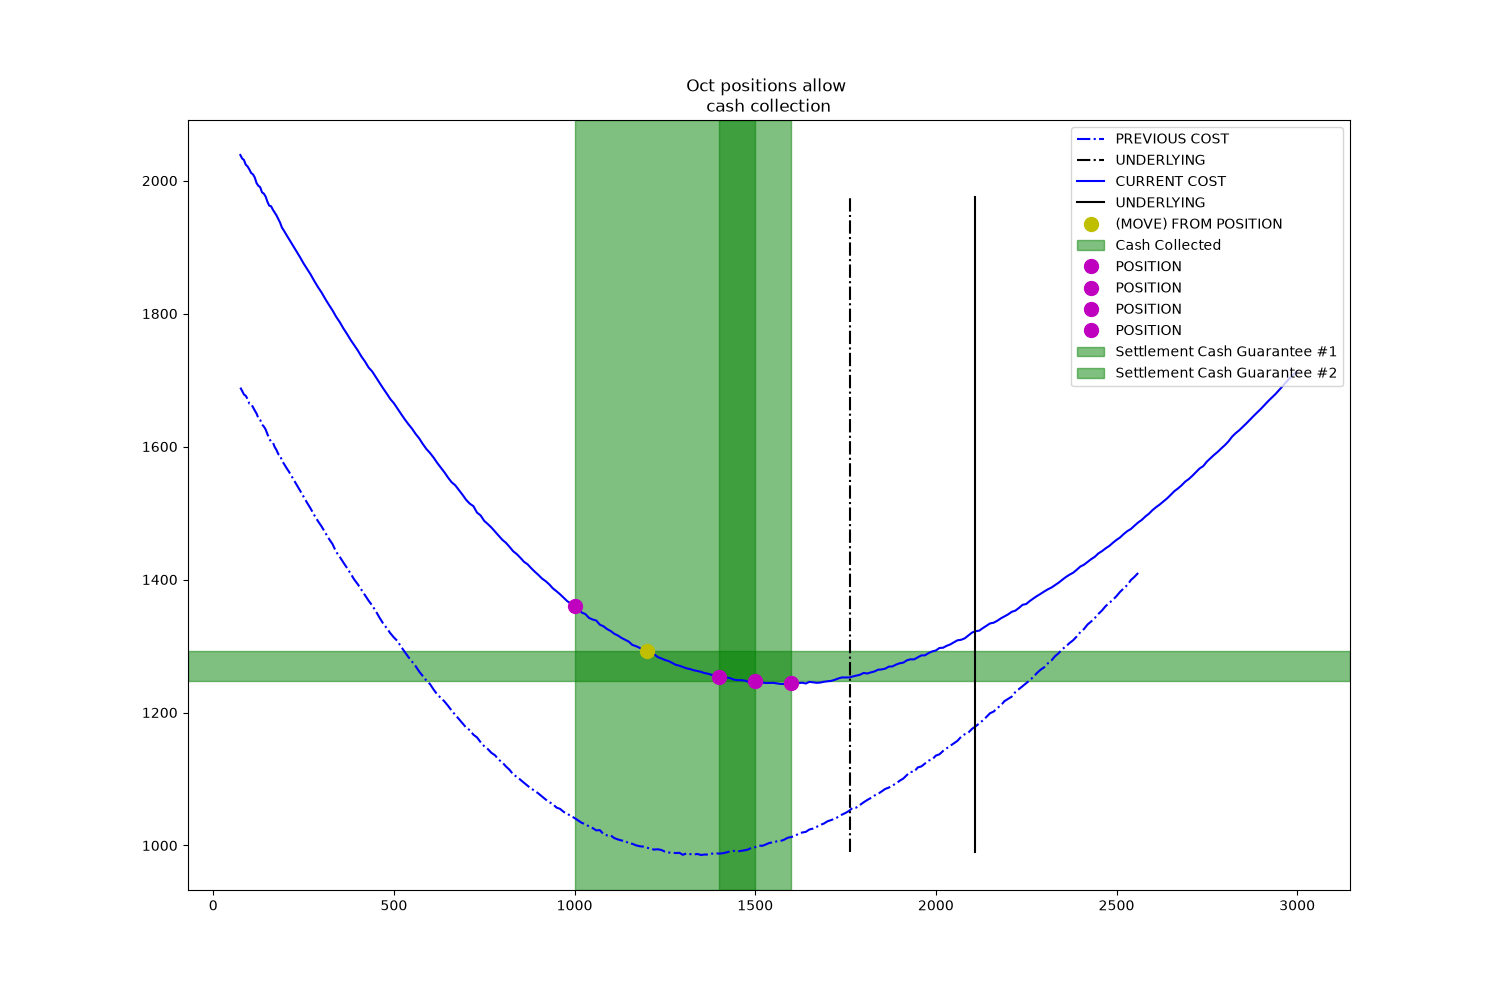
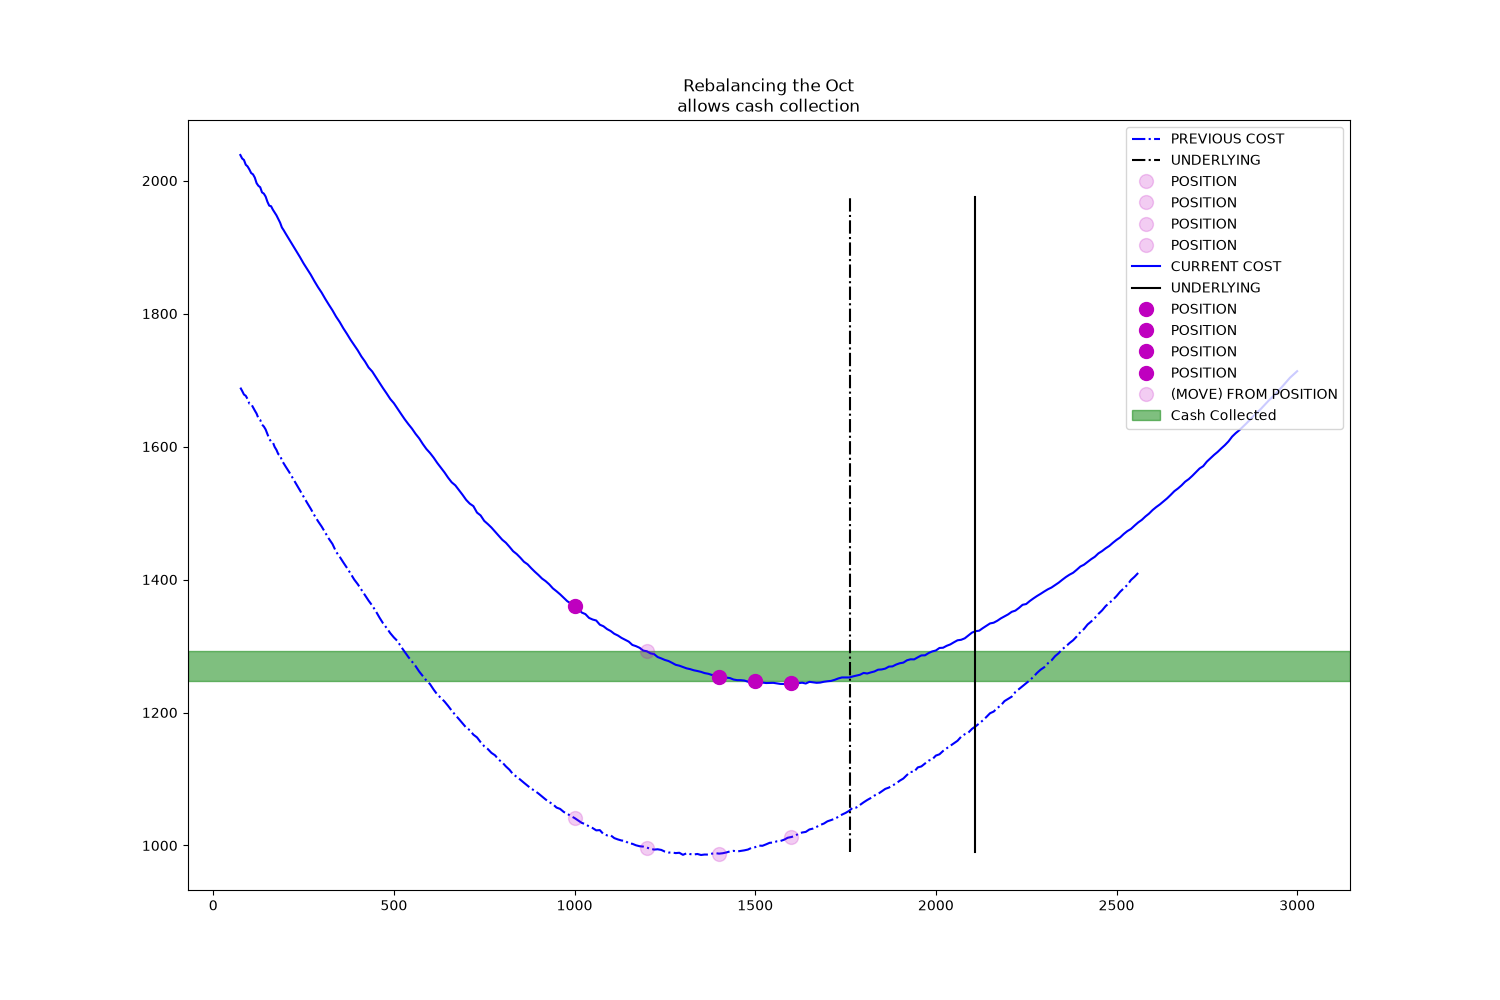
visualize positions before-rebalancing, during-move & after-rebalancing

Changed region(s): [[0.368, 0.062, 0.5827, 0.899], [0.7053, 0.124, 0.8893, 0.434]]

diff --git a/services/visualizer.py b/services/visualizer.py
@@ -14,7 +14,51 @@ class Visualizer:
         self.HERE = Path(__file__).parent
         self.images_dir = self.HERE / "images"
 
-    def visualize_positions(self, xs: pl.DataFrame, positions: list[float]):
+    def visualize_move(self, xss: list[pl.DataFrame], positions: list[float], move: tuple[float, float]):
+        fig, ax = plt.subplots(figsize=(15, 10))
+
+        # previously
+        xs_ = xss[0]
+        pair_quotes_ = self._calculate_pair_mids(xs_)
+
+        plt.plot(pair_quotes_["STRIKE"], pair_quotes_["PAIR_MID"], "-.b", label="PREVIOUS COST")
+        plt.axvline(x=xs_['UNDERLYING_LAST'][0], ymin=0.05, ymax=0.9, color='k', linestyle='-.', label="UNDERLYING")
+
+        self._plot_positions(pair_quotes_, positions, alpha=0.2)
+
+        # move
+        from_, to = move[0], move[1]
+        idx = positions.index(from_)
+        _ = positions.pop(idx)
+        positions.append(to)
+        positions.sort()
+
+        # after the move
+        xs = xss[1]
+        pair_quotes = self._calculate_pair_mids(xs)
+
+        plt.plot(pair_quotes["STRIKE"], pair_quotes["PAIR_MID"], "-b", label="CURRENT COST")
+        plt.axvline(x=xs['UNDERLYING_LAST'][0], ymin=0.05, ymax=0.9, color='k', linestyle='-', label="UNDERLYING")
+
+        self._plot_positions(pair_quotes, positions)
+
+        # cash collection because of the move
+        cost_ = pair_quotes.filter(
+            pl.col("STRIKE") == from_
+        )["PAIR_MID"][0]
+        plt.plot(from_, cost_, "om", markersize=10, alpha=0.2, label="(MOVE) FROM POSITION")
+        cost = pair_quotes.filter(
+            pl.col("STRIKE") == to
+        )["PAIR_MID"][0]
+        plt.axhspan(ymin=cost_, ymax=cost, color='g', alpha=0.5, label="Cash Collected")
+
+        # self._plot_settlement_guarantee(pair_quotes, positions)
+        plt.legend(loc="upper right")
+
+        plt.title(f"Rebalancing the Oct\nallows cash collection")
+        fig.savefig(self.images_dir / "move.png")
+
+    def visualize_positions(self, xs: pl.DataFrame, positions: list[float], file_suffix: str = ""):
         # calculate current_pair_mids from xs
         print("\nxs")
         print(xs)
@@ -31,57 +75,24 @@ class Visualizer:
         plt.plot(pair_quotes["STRIKE"], pair_quotes["PAIR_MID"], "-b", label="PAIR COST")
         plt.axvline(x=xs['UNDERLYING_LAST'][0], ymin=0.05, ymax=0.9, color='k', linestyle='--', label="UNDERLYING")
 
-        # plot positions
+        self._plot_positions(pair_quotes, positions)
         self._plot_settlement_guarantee(pair_quotes, positions)
 
         plt.legend()
-        plt.title(f"Oct positions imply \nsettlement cash inflow guarantees by market maker")
+        fig.savefig(self.images_dir / f"positions{file_suffix}.png")
 
-        fig.savefig(self.images_dir / "positions.png")
+    def _plot_positions(self, pair_quotes: pl.DataFrame, positions: list[float], alpha=1.):
 
-    def visualize_move(self, xss: list[pl.DataFrame], positions: list[float], move: tuple[float, float]):
-        # calculate prev_pair_mids & new_pair_mids from xs_ & xs
-        xs_, xs = xss[0], xss[1]
-        pair_quotes_ = self._calculate_pair_mids(xs_)
-        pair_quotes = self._calculate_pair_mids(xs)
-
-        fig, ax = plt.subplots(figsize=(15, 10))
-
-        plt.plot(pair_quotes_["STRIKE"], pair_quotes_["PAIR_MID"], "-.b", label="PREVIOUS COST")
-        plt.axvline(x=xs_['UNDERLYING_LAST'][0], ymin=0.05, ymax=0.9, color='k', linestyle='-.', label="UNDERLYING")
-
-        plt.plot(pair_quotes["STRIKE"], pair_quotes["PAIR_MID"], "-b", label="CURRENT COST")
-        plt.axvline(x=xs['UNDERLYING_LAST'][0], ymin=0.05, ymax=0.9, color='k', linestyle='-', label="UNDERLYING")
-
-        from_, to = move[0], move[1]
-        idx = positions.index(from_)
-        _ = positions.pop(idx)
-        positions.append(to)
-        positions.sort()
-
-        cost_ = pair_quotes.filter(
-            pl.col("STRIKE") == from_
-        )["PAIR_MID"][0]
-        plt.plot(from_, cost_, "oy", markersize=10, label="(MOVE) FROM POSITION")
-        cost = pair_quotes.filter(
-            pl.col("STRIKE") == to
-        )["PAIR_MID"][0]
-        plt.axhspan(ymin=cost_, ymax=cost, color='g', alpha=0.5, label="Cash Collected")
-
-        self._plot_settlement_guarantee(pair_quotes, positions)
-        plt.legend(loc="upper right")
-
-        plt.title(f"Oct positions allow \ncash collection")
-        fig.savefig(self.images_dir / "move.png")
-
-    @staticmethod
-    def _plot_settlement_guarantee(pair_quotes:pl.DataFrame, positions: list[float]):
+        print("\npositions")
+        # plot positions
         for x in positions:
             y = pair_quotes.filter(
                 pl.col("STRIKE") == x
             )["PAIR_MID"][0]
-            plt.plot(x, y, "om", markersize=10, label="POSITION")
+            plt.plot(x, y, "om", markersize=10, label="POSITION", alpha=alpha)
 
+    @staticmethod
+    def _plot_settlement_guarantee(pair_quotes:pl.DataFrame, positions: list[float]):
         # plot settlement guarantee
         assert len(positions) == 4  # Visualizing Oct for now
         positions.sort()
@@ -89,7 +100,10 @@ class Visualizer:
         plt.axvspan(xmin=s0, xmax=s3, color='g', alpha=0.5, label="Settlement Cash Guarantee #1")
         plt.axvspan(xmin=s1, xmax=s2, color='g', alpha=0.5, label="Settlement Cash Guarantee #2")
 
-    def _calculate_pair_mids(self, xs: pl.DataFrame):
+        plt.title(f"Oct positions imply \nsettlement cash inflow guarantees\nby market maker")
+
+    @staticmethod
+    def _calculate_pair_mids(xs: pl.DataFrame):
         pair_quotes = (
             xs
             .with_columns(
@@ -137,10 +151,13 @@ if __name__ == "__main__":
     pair_strikes = [1000, 1200, 1400, 1600]
 
     vis = Visualizer()
+    # visualize settlement cash guarantee before rebalancing
+    vis.visualize_positions(xss[0], pair_strikes, file_suffix="_before_rebalancing")
+
     # visualize move
     move = (1200, 1500)
     vis.visualize_move(xss, pair_strikes, move)
 
-    # visualize settlement cash guarantee
-    vis.visualize_positions(xss[1], pair_strikes)
+    # visualize settlement cash guarantee after rebalancing
+    vis.visualize_positions(xss[1], pair_strikes, file_suffix="_after_rebalancing")
 
